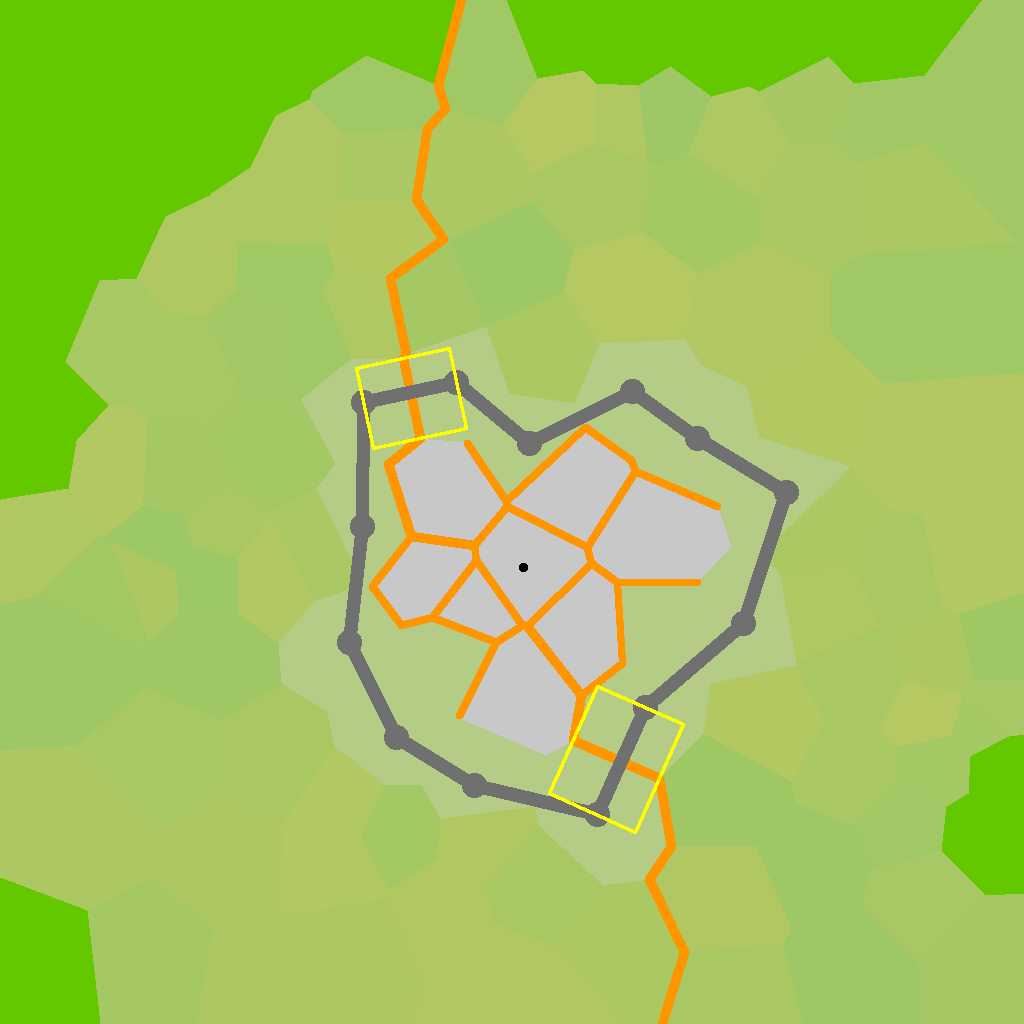
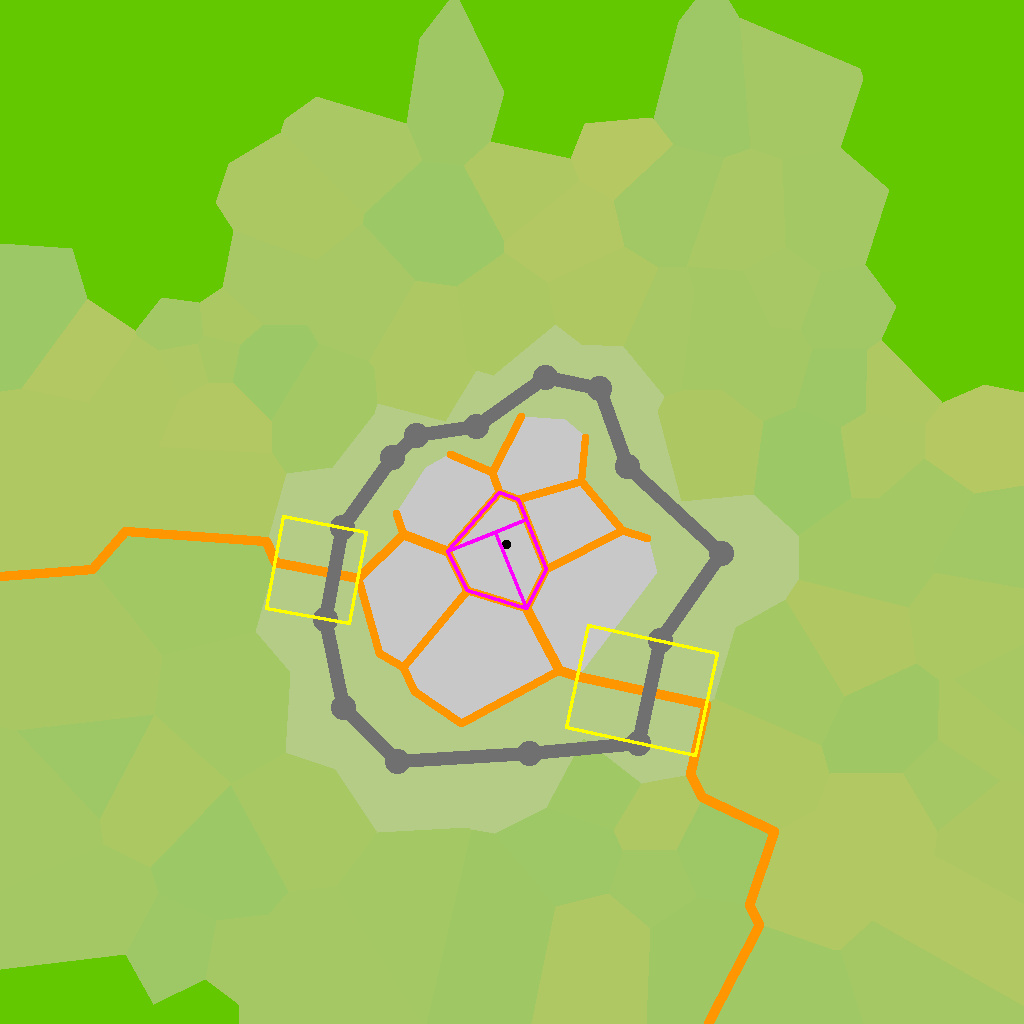
polygon splitting

diff --git a/src/sitemap.cpp b/src/sitemap.cpp
@@ -19,6 +19,20 @@ static const size_t FIELD_DISTRICT_RADIUS = 5;
 static const size_t WALL_RADIUS = 2;
 static const size_t MIN_GATEWAY_DISTANCE = 5;
 
+float polygon_area(std::vector<glm::vec2> &vertices)
+{
+	float area = 0.f;
+
+	// Calculate value of shoelace formula
+	int j = vertices.size() - 1;
+	for (int i = 0; i < vertices.size(); i++) {
+		area += (vertices[j].x + vertices[i].x) * (vertices[j].y - vertices[i].y);
+		j = i;
+	}
+
+	return fabs(area / 2.f);
+}
+
 Sitemap::Sitemap(long seed, struct rectangle area)
 {
 	this->seed = seed;
@@ -405,7 +419,7 @@ void Sitemap::make_highways(void)
 void Sitemap::divide_parcels(void)
 {
 	for (auto &d : districts) {
-		if (d.radius < WALL_RADIUS) {
+		if (d.radius == 0) {
 			std::list<glm::vec2> polygon;
 			for (auto jun : d.junctions) {
 				polygon.push_back(jun->position);
@@ -415,6 +429,172 @@ void Sitemap::divide_parcels(void)
 	}
 }
 
+struct chainsplit {
+	std::list<glm::vec2>::iterator target;
+	std::list<glm::vec2>::iterator a;
+	std::list<glm::vec2>::iterator b;
+	glm::vec2 point;
+};
+			
+// ugly
+static struct chainsplit find_splitpoint(std::list<glm::vec2> &polygon)
+{
+	//std::list<glm::vec2>::iterator split;
+	struct chainsplit split;
+
+	float min = std::numeric_limits<float>::max();
+	for (std::list<glm::vec2>::iterator it = polygon.begin(); it != polygon.end(); ++it) {
+		std::list<glm::vec2>::iterator next = std::next(it);
+		if (next == polygon.end()) {
+			next = polygon.begin();
+		}
+		glm::vec2 a = *it;
+		glm::vec2 b = *next;
+		// find the point with the longest distance to the segment
+		std::list<glm::vec2>::iterator target;
+		float max = 0.F;
+		for (std::list<glm::vec2>::iterator it = polygon.begin(); it != polygon.end(); ++it) {
+			glm::vec2 point = *it;
+			float dist = sqrdist_point_segment(point, a, b);
+			if (dist > max) {
+				max = dist;
+				target = it;
+			}
+		}
+		// now add the new vertex to the list
+		const glm::vec2 splitpoint = closest_point_segment(*target, a, b);
+		const std::list<glm::vec2>::iterator splitstart = polygon.insert(next, splitpoint);
+		// now split the polygon in two
+		// first half
+		std::list<glm::vec2> right;
+		std::list<glm::vec2>::iterator chain = splitstart;
+		while (chain != target) {
+			right.push_back(*chain);
+			chain++;	
+			if (chain == polygon.end()) { 
+				chain = polygon.begin(); 
+			}
+		}
+		right.push_back(*target);
+		// second half
+		std::list<glm::vec2> left;
+		chain = splitstart;
+		while (chain != target) {
+			left.push_back(*chain);
+			if (chain == polygon.begin()) { 
+				chain = std::prev(polygon.end()); 
+			} else {
+				chain--;	
+			}
+		}
+		left.push_back(*target);
+
+		printf("right size %d\n", right.size());
+		printf("left size %d\n", left.size());
+
+		std::vector<glm::vec2> rightpoints;
+		std::vector<glm::vec2> leftpoints;
+		for (auto point : right) {
+			rightpoints.push_back(point);
+		}
+		for (auto point : left) {
+			leftpoints.push_back(point);
+		}
+		float arearight = polygon_area(rightpoints);
+		float arealeft = polygon_area(leftpoints);
+		float ratio = arearight / arealeft;
+
+		printf("area right %f\n", arearight);
+		printf("area left %f\n", arealeft);
+		printf("ratio %f\n", ratio);
+
+
+		// best ratio is the closest to 1
+		float dist = fabs(1.F - ratio);
+		if (dist < min) {
+			min = dist;
+			split.target = target;
+			split.a = it;
+			split.b = next;
+			split.point = splitpoint;
+		}
+
+		// remove the inserted point from the original polygon
+		polygon.erase(splitstart);
+	}
+		printf("min %f\n", min);
+
+	return split;
+}
+
+void Sitemap::divide_polygons(std::list<glm::vec2> start)
+{
+	std::queue<std::list<glm::vec2>> queue; // queue of polygons to split
+	queue.push(start);
+
+	while (!queue.empty()) {
+		std::list<glm::vec2> polygon = queue.front();
+		queue.pop();
+		if (polygon.size() == 4) {
+			struct parcel par;
+			par.a = polygon.front();
+			polygon.pop_front();
+			par.b = polygon.front();
+			polygon.pop_front();
+			par.c = polygon.front();
+			polygon.pop_front();
+			par.d = polygon.front();
+			polygon.pop_front();
+			parcels.push_back(par);
+		} else if (polygon.size() == 3) {
+			struct parcel par;
+			par.a = polygon.front();
+			polygon.pop_front();
+			par.b = polygon.front();
+			polygon.pop_front();
+			par.c = polygon.front();
+			par.d = polygon.front();
+			polygon.pop_front();
+			parcels.push_back(par);
+		}else {
+			// of all the polygon segments find a point that lies on a perpendicular line to the segment that divides the polygon in two "almost equal" areas 
+			printf("%d polygon before\n", polygon.size());
+			struct chainsplit split = find_splitpoint(polygon);
+			printf("%d polygon after\n", polygon.size());
+			// divide the polygon in two
+			const std::list<glm::vec2>::iterator splitstart = polygon.insert(split.b, split.point);
+			// first half
+			std::list<glm::vec2> right;
+			std::list<glm::vec2>::iterator it = splitstart;
+			while (it != split.target) {
+				right.push_back(*it);
+				it++;	
+				if (it == polygon.end()) { 
+					it = polygon.begin(); 
+				}
+			}
+			right.push_back(*split.target);
+			// second half
+			std::list<glm::vec2> left;
+			it = splitstart;
+			while (it != split.target) {
+				left.push_back(*it);
+				if (it == polygon.begin()) { 
+					it = std::prev(polygon.end()); 
+				} else {
+					it--;	
+				}
+			}
+			left.push_back(*split.target);
+
+			queue.push(right);
+			queue.push(left);
+			printf("right size %d\n", right.size());
+			printf("left size %d\n", left.size());
+		}
+	}
+}
+/*
 // a polygon can be stored as a double linked list of connected vertices
 void Sitemap::divide_polygons(std::list<glm::vec2> start)
 {
@@ -424,7 +604,13 @@ void Sitemap::divide_polygons(std::list<glm::vec2> start)
 	while (!polygons.empty()) {
 		std::list<glm::vec2> polygon = polygons.front();
 		polygons.pop();
-		if (polygon.size() > 4) {
+		std::vector<glm::vec2> vertices;
+		for (auto point : polygon) {
+			vertices.push_back(point);
+		}
+		float area = polygon_area(vertices);
+		printf("%f\n", area);
+		if (area > 500.f) {
 			struct segment longest = {{0.f, 0.f} , {0.f, 0.f}};
 			std::list<glm::vec2>::iterator longestv;
 			float max = 0.F;
@@ -460,51 +646,60 @@ void Sitemap::divide_polygons(std::list<glm::vec2> start)
 			const std::list<glm::vec2>::iterator splitstart = polygon.insert(longestv, splitpoint);
 			// now split the polygon in two
 			// first half
-			std::list<glm::vec2> ying;
+			std::list<glm::vec2> right;
 			std::list<glm::vec2>::iterator it = splitstart;
 			while (it != target) {
-				ying.push_back(*it);
+				right.push_back(*it);
 				it++;	
 				if (it == polygon.end()) { 
 					it = polygon.begin(); 
 				}
 			}
-			ying.push_back(*target);
+			right.push_back(*target);
 			// second half
-			std::list<glm::vec2> yang;
+			std::list<glm::vec2> left;
 			it = splitstart;
 			while (it != target) {
-				yang.push_back(*it);
+				left.push_back(*it);
 				if (it == polygon.begin()) { 
 					it = std::prev(polygon.end()); 
 				} else {
 					it--;	
 				}
 			}
-			yang.push_back(*target);
-		printf("original polygon\n");
-		for (auto &p : polygon) {
-			printf("%f, %f\n", p.x, p.y);
+			left.push_back(*target);
+			if (glm::distance(splitpoint, longest.P0) > 0.5f && glm::distance(splitpoint, longest.P1) > 0.5f) {
+				if (right.size() > 3) {
+					polygons.push(right);
+				}
+				if (left.size() > 3) {
+					polygons.push(left);
+				}
+			}
 		}
-		printf("first half\n");
-		for (auto &p : ying) {
-			printf("%f, %f\n", p.x, p.y);
-		}
-		printf("second half\n");
-		for (auto &p : yang) {
-			printf("%f, %f\n", p.x, p.y);
-		}
-		} else {
-			struct parcel par;
-			par.a = polygon.front();
-			polygon.pop_front();
-			par.b = polygon.front();
-			polygon.pop_front();
-			par.c = polygon.front();
-			polygon.pop_front();
-			par.d = polygon.front();
-			polygon.pop_front();
-			parcels.push_back(par);
-		}
+			printf("polygon size %d\n", polygon.size());
+			if (polygon.size() > 3) {
+				struct parcel par;
+				par.a = polygon.front();
+				polygon.pop_front();
+				par.b = polygon.front();
+				polygon.pop_front();
+				par.c = polygon.front();
+				polygon.pop_front();
+				par.d = polygon.front();
+				polygon.pop_front();
+				parcels.push_back(par);
+			} else if (polygon.size() == 3) {
+				struct parcel par;
+				par.a = polygon.front();
+				polygon.pop_front();
+				par.b = polygon.front();
+				polygon.pop_front();
+				par.c = polygon.front();
+				par.d = polygon.front();
+				polygon.pop_front();
+				parcels.push_back(par);
+			}
 	}
 }
+*/

diff --git a/src/main.cpp b/src/main.cpp
@@ -160,6 +160,14 @@ void print_site(const Sitemap *map)
 		}
 	}
 
+	printf("parcels %d\n", map->parcels.size());
+	for (const auto &parc : map->parcels) {
+		draw_thick_line(parc.a.x, parc.a.y, parc.b.x, parc.b.y, 1, image.data, image.width, image.height, image.nchannels, PURPLE);
+		draw_thick_line(parc.b.x, parc.b.y, parc.c.x, parc.c.y, 1, image.data, image.width, image.height, image.nchannels, PURPLE);
+		draw_thick_line(parc.c.x, parc.c.y, parc.d.x, parc.d.y, 1, image.data, image.width, image.height, image.nchannels, PURPLE);
+		draw_thick_line(parc.d.x, parc.d.y, parc.a.x, parc.a.y, 1, image.data, image.width, image.height, image.nchannels, PURPLE);
+	}
+
 	stbi_flip_vertically_on_write(true);
 	stbi_write_png("diagram.png", image.width, image.height, image.nchannels, image.data, image.width*image.nchannels);
 
@@ -180,12 +188,6 @@ int main(int argc, char *argv[])
 	Sitemap sitemap = {seed, SITE_AREA};
 
 	print_site(&sitemap);
-
-	glm::vec2 c = {5.f, 1.f};
-	glm::vec2 a = {0.f, 0.f};
-	glm::vec2 b = {3.f, 0.f};
-glm::vec2 p = closest_point_segment(c, a, b);
-printf("%f, %f\n", p.x, p.y);
 
 	return 0;
 }
